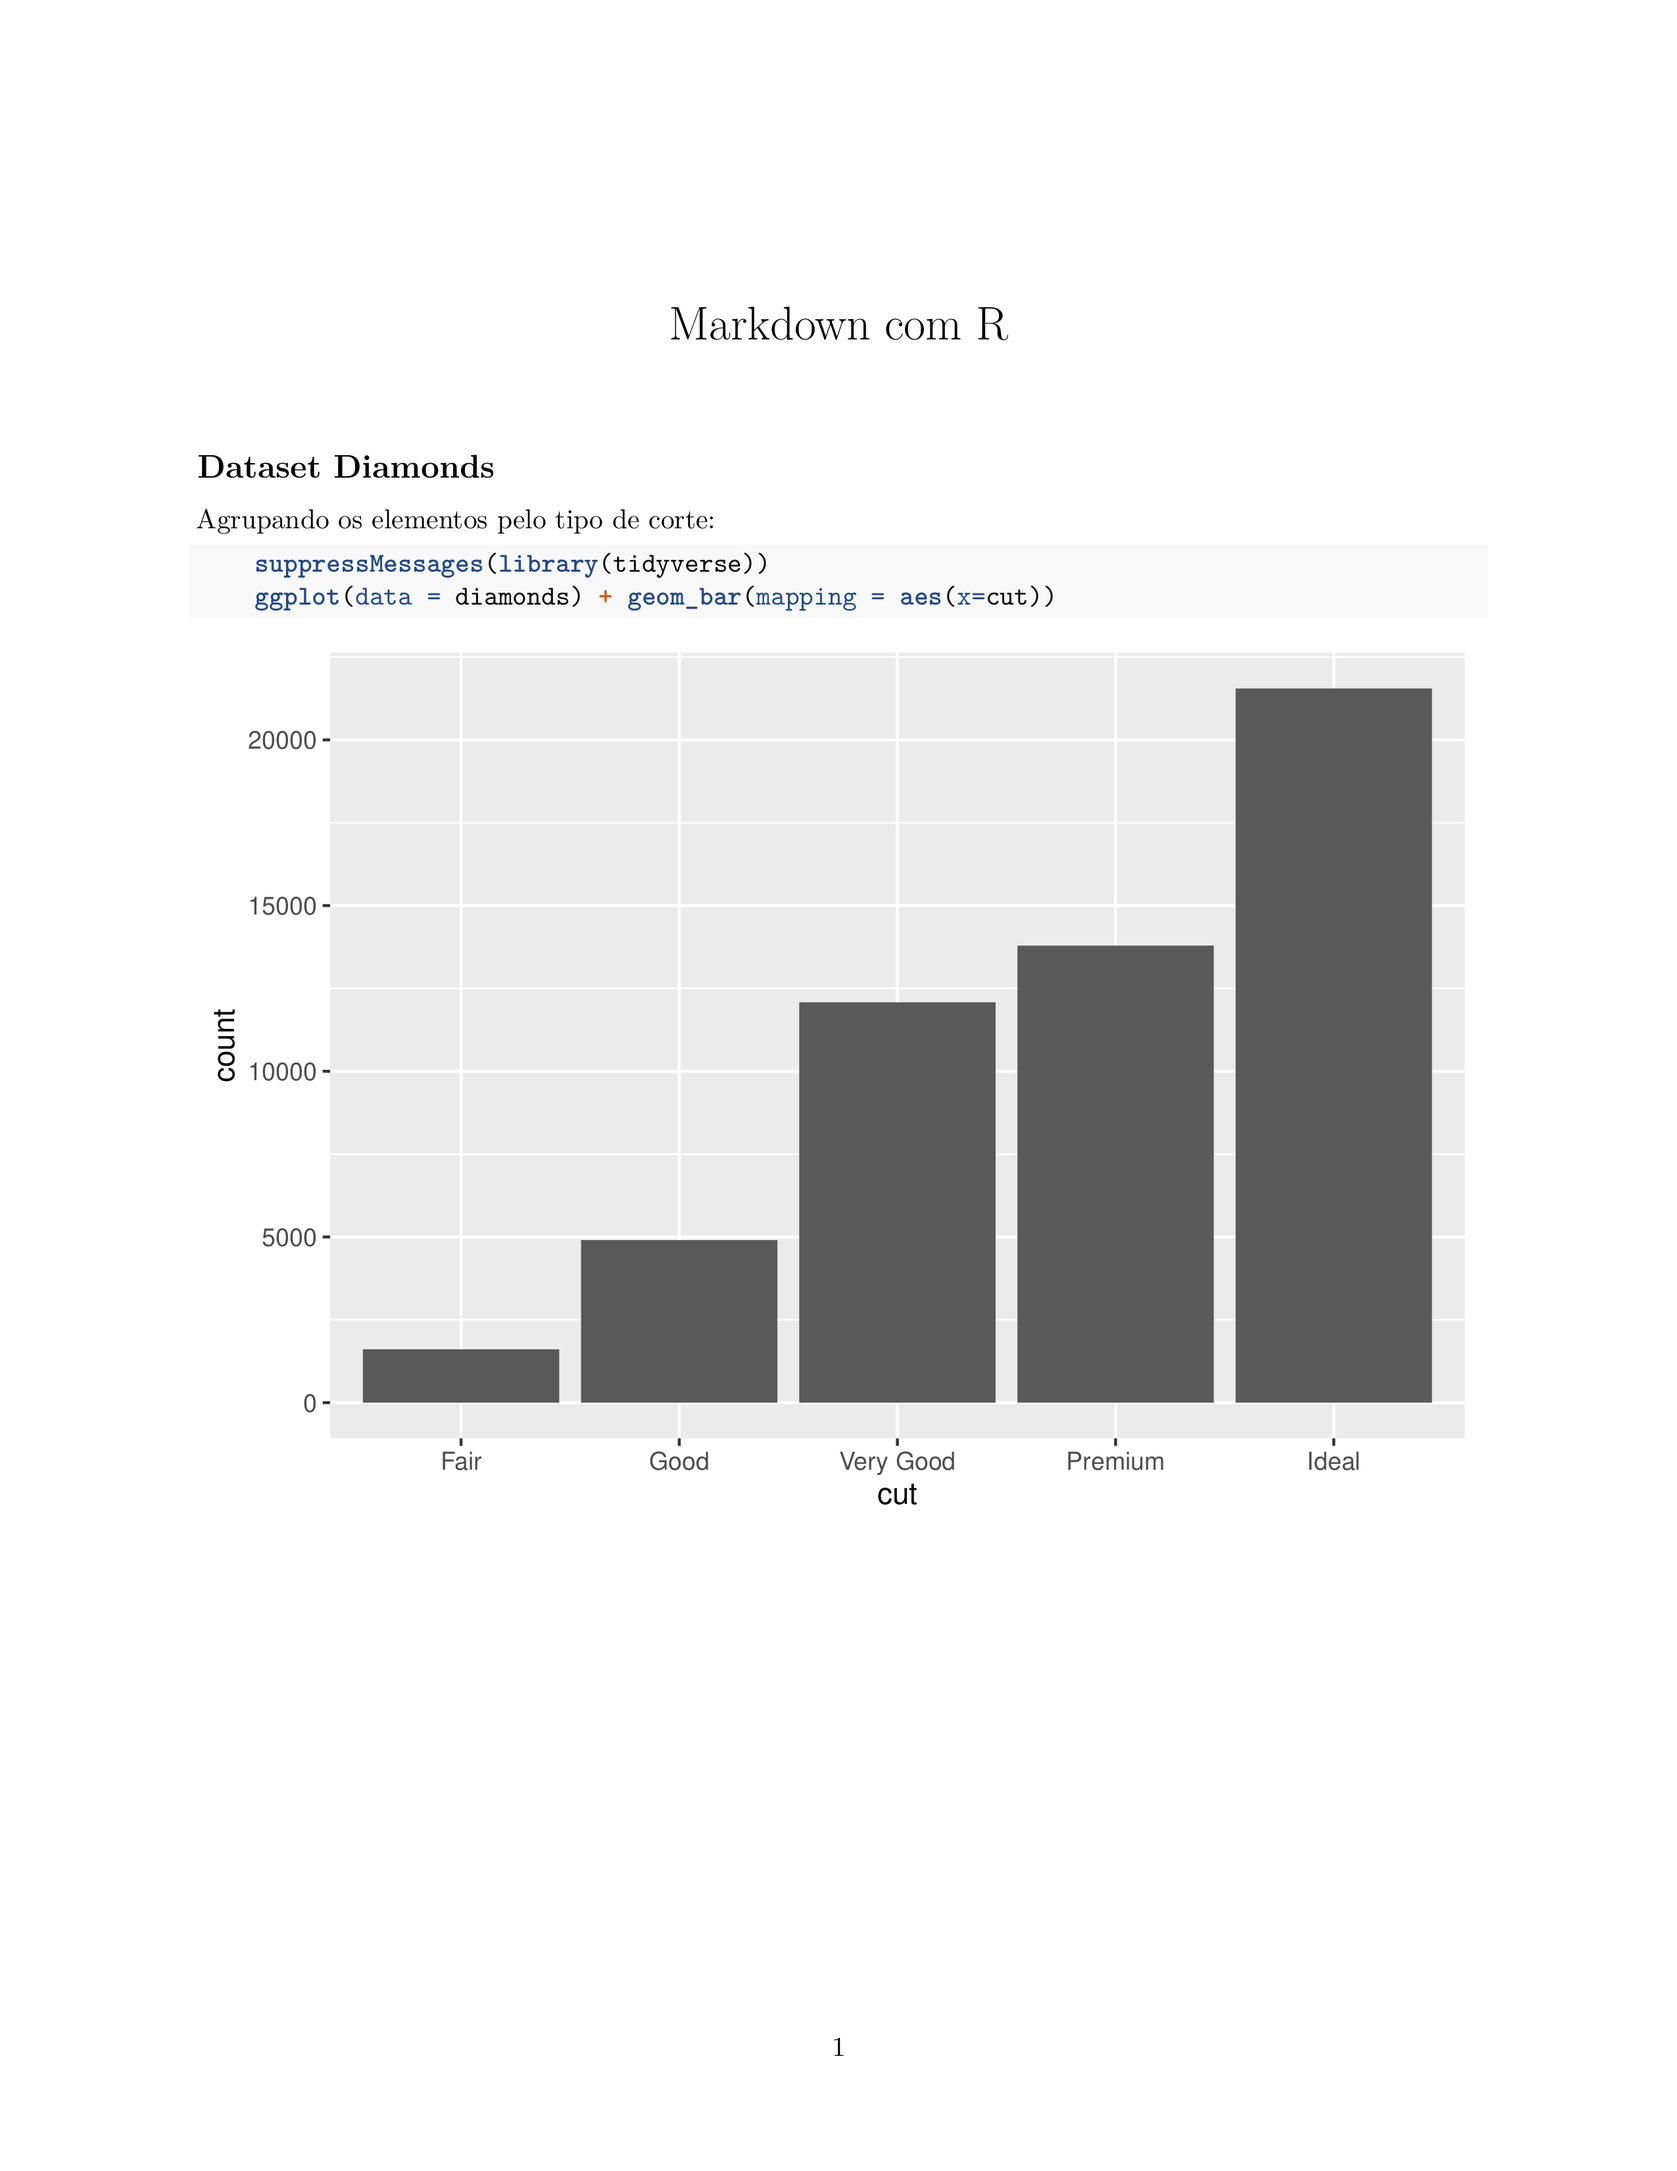
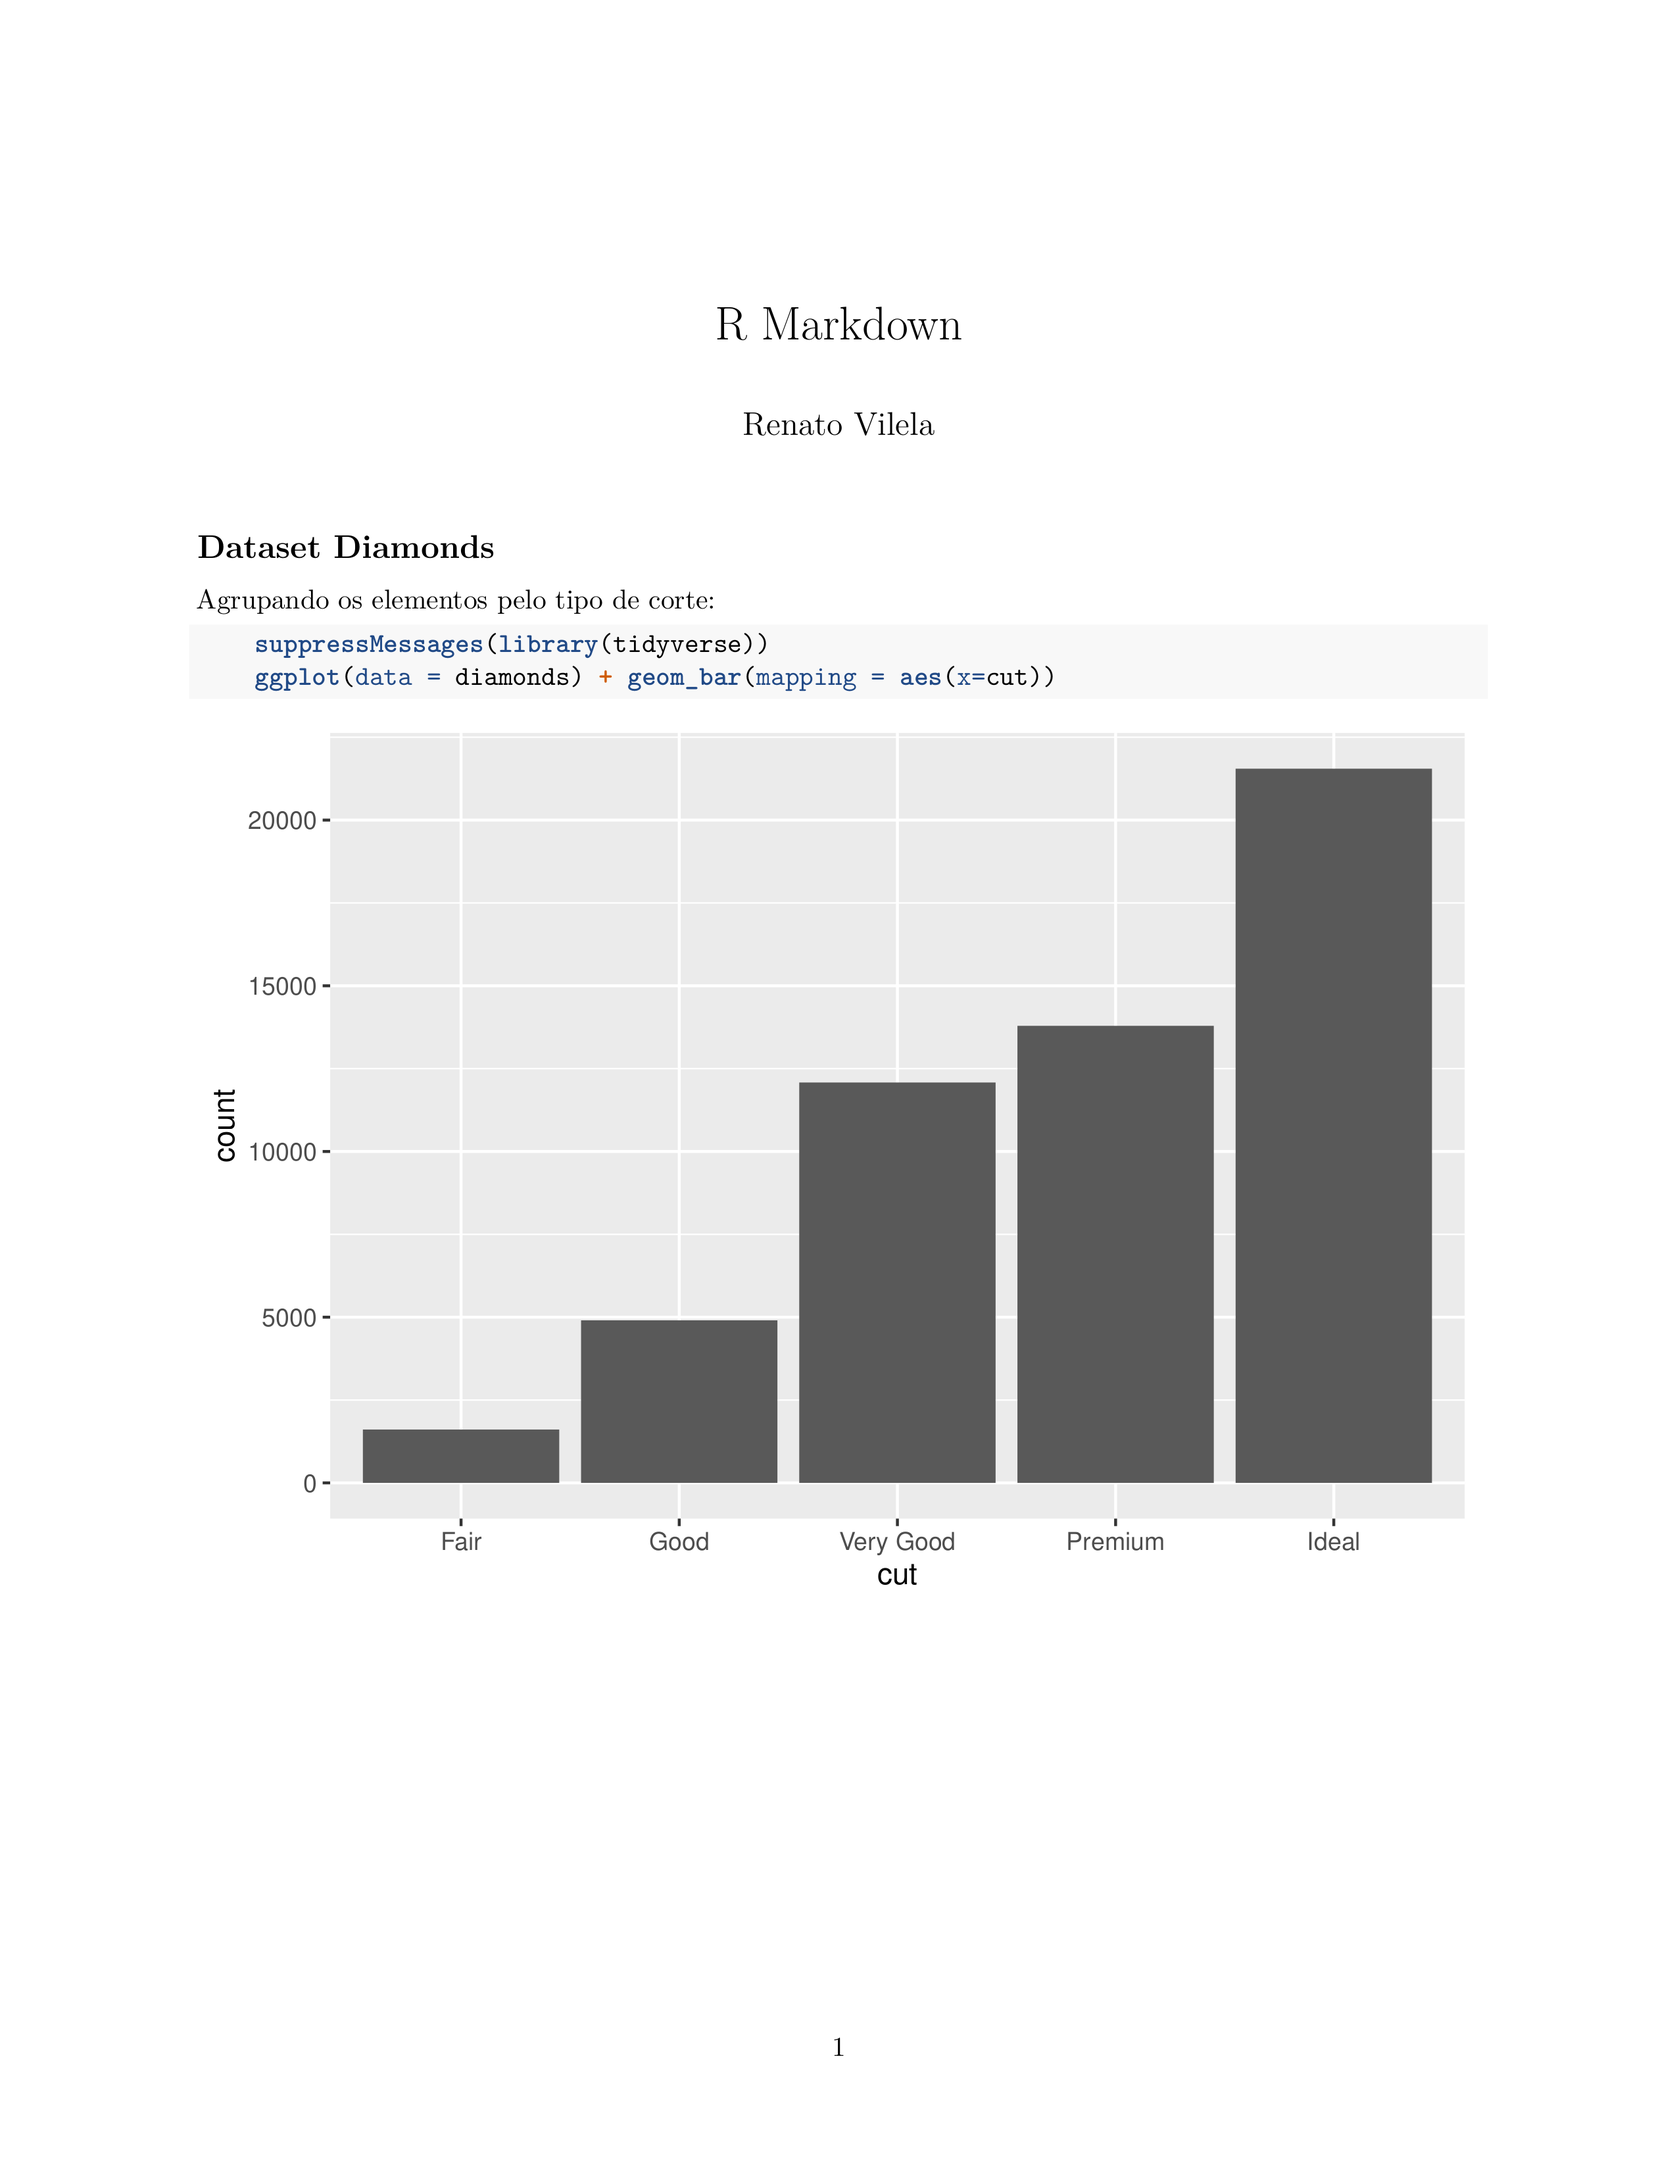
correcao

diff --git a/pags/tutors/rmarkdown.html b/pags/tutors/rmarkdown.html
@@ -29,7 +29,7 @@
 <p>O preâmbulo pode ser da seguinte forma:</p>
 <pre><code>    ---
     title: Markdown com R
-    Author: Renato Vilela
+    author: Renato Vilela
     output: pdf_document
     ---</code></pre>
 <p>O tipo de arquivo de saída será pdf, pois foi definido no output. O padrão é html.</p>
@@ -47,7 +47,7 @@
 <pre><code>    $ Rscript -e &quot;rmarkdown::render(&#39;example.rmd&#39;)&quot;</code></pre>
 <p>E o resultado será o seguinte:</p>
 <p class="center"><img src="./example.png" style="width:20cm" /></p>
-<p class="center"><b>Markdown com R.</b></p>
+<p class="center"><b>R Markdown.</b></p>
 </div>             
 <footer>
     <p>© Copyright 2022 <b>Renato Vilela</b>. All rights reserved.</p>
